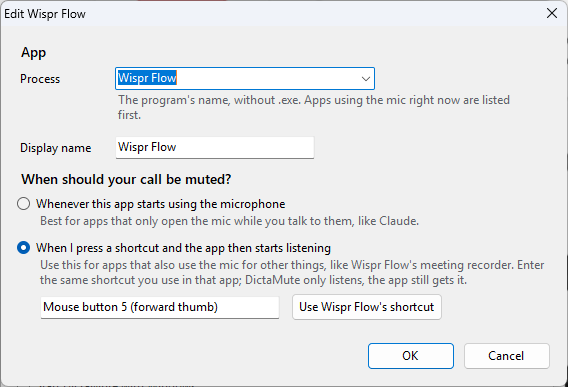
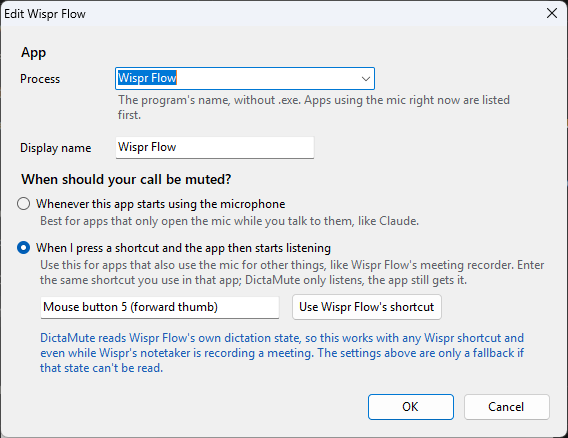
1.3.1: follow Wispr Flow's own dictation state
Wispr's meeting notetaker keeps the mic open for the whole call, so 'Wispr opened the mic'
never fired and every shortcut press logged 'already using the mic'. Wispr writes
prefs.activeDictationSession to its config.json while dictating (null when idle); DictaMute
now reads that (src/WisprState.cs) and falls back to shortcut + mic only if it can't.
CaptureProbe gains --streams for per-stream diagnostics.

diff --git a/src/DictaMute.cs b/src/DictaMute.cs
@@ -29,14 +29,14 @@ using Microsoft.Win32;
 [assembly: System.Reflection.AssemblyProduct("DictaMute")]
 [assembly: System.Reflection.AssemblyDescription("Mutes only your Teams or Discord call while your dictation app is listening")]
 [assembly: System.Reflection.AssemblyCopyright("MIT License")]
-[assembly: System.Reflection.AssemblyVersion("1.3.0.0")]
-[assembly: System.Reflection.AssemblyFileVersion("1.3.0.0")]
+[assembly: System.Reflection.AssemblyVersion("1.3.1.0")]
+[assembly: System.Reflection.AssemblyFileVersion("1.3.1.0")]
 
 static class Program
 {
     [DllImport("user32.dll")] static extern bool SetProcessDPIAware();
 
-    public const string Version = "1.3.0";
+    public const string Version = "1.3.1";
 
     [STAThread]
     static void Main(string[] args)
@@ -156,6 +156,8 @@ class DictaMuteApp : ApplicationContext
         public List<HashSet<int>> Combos;
         public State State = State.Idle;
         public bool Active, WasActive;
+        public bool Exact;            // Active comes from the app's own dictation state (Wispr Flow), not the mic
+        public bool? LoggedExact;
         public DateTime ArmDeadline, LastActive;
     }
 
@@ -335,7 +337,18 @@ class DictaMuteApp : ApplicationContext
                     }
                 }
                 bool inCall = calls.Any(c => c.InCall);
-                foreach (var w in list) w.Active = active.Any(w.Rule.Matches);
+                foreach (var w in list)
+                {
+                    bool? exact = WisprState.AppliesTo(w.Rule) ? WisprState.IsDictating() : null;
+                    w.Exact = exact.HasValue;
+                    w.Active = exact ?? active.Any(w.Rule.Matches);
+                    if (w.LoggedExact != w.Exact)
+                    {
+                        w.LoggedExact = w.Exact;
+                        if (w.Exact) Log(w.Rule.Name + ": following Wispr Flow's own dictation state");
+                        else if (WisprState.AppliesTo(w.Rule)) Log(w.Rule.Name + ": Wispr's dictation state isn't readable; using the shortcut and microphone");
+                    }
+                }
 
                 AppRule armed;
                 while (arms.TryDequeue(out armed)) OnArm(list, armed, inCall);
@@ -358,7 +371,8 @@ class DictaMuteApp : ApplicationContext
     void OnArm(List<Watch> list, AppRule rule, bool inCall)
     {
         var w = list.FirstOrDefault(x => x.Rule == rule);
-        if (w == null || w.State != State.Idle || paused || !inCall) return; // a stop press is seen via the mic going idle
+        if (w == null || w.Exact) return; // the app reports its own dictation state: no need to guess from the shortcut
+        if (w.State != State.Idle || paused || !inCall) return; // a stop press is seen via the mic going idle
         if (w.Active) { Log(rule.Name + ": shortcut, but it's already using the mic; leaving the call alone"); return; }
         Log(rule.Name + ": shortcut, armed (focus: " + Focus.Describe(Focus.Current()) + ")");
         w.State = State.Arming;
@@ -378,8 +392,9 @@ class DictaMuteApp : ApplicationContext
             else switch (w.State)
             {
                 case State.Idle:
-                    // "Whenever it uses the mic" apps start on the idle -> active edge.
-                    if (w.Combos.Count == 0 && w.Active && !w.WasActive) { w.State = State.Listening; Log(w.Rule.Name + ": started listening"); }
+                    // "Whenever it uses the mic" apps, and apps reporting their own dictation state,
+                    // start on the idle -> active edge.
+                    if ((w.Combos.Count == 0 || w.Exact) && w.Active && !w.WasActive) { w.State = State.Listening; Log(w.Rule.Name + ": started listening"); }
                     break;
                 case State.Arming:
                     if (w.Active) { w.State = State.Listening; Log(w.Rule.Name + ": started listening"); }

diff --git a/src/WisprState.cs b/src/WisprState.cs
@@ -1,0 +1,59 @@
+// Wispr Flow's own dictation state. Wispr writes prefs.activeDictationSession into its config.json
+// when dictation starts ({"uuid":…,"startTimestamp":…}) and sets it back to null when it stops.
+// That's exact even while Wispr's meeting notetaker holds the microphone open for a whole call,
+// which makes the "app opened the mic" signal useless for Wispr.
+using System;
+using System.IO;
+using System.Text;
+
+static class WisprState
+{
+    const string Key = "\"activeDictationSession\"";
+    static readonly string ConfigPath = Path.Combine(
+        Environment.GetFolderPath(Environment.SpecialFolder.ApplicationData), "Wispr Flow", "config.json");
+
+    static DateTime lastWrite;
+    static bool everSeen;  // the field exists in this Wispr version
+    static bool dictating;
+
+    public static bool AppliesTo(AppRule rule)
+    {
+        return rule.Process.StartsWith("Wispr", StringComparison.OrdinalIgnoreCase);
+    }
+
+    /// <summary>true = dictating, false = idle, null = can't tell (no Wispr, or a version without the field).</summary>
+    public static bool? IsDictating()
+    {
+        try
+        {
+            var info = new FileInfo(ConfigPath);
+            if (!info.Exists) return null;
+            if (info.LastWriteTimeUtc != lastWrite)
+            {
+                string raw;
+                using (var stream = new FileStream(ConfigPath, FileMode.Open, FileAccess.Read, FileShare.ReadWrite | FileShare.Delete))
+                using (var reader = new StreamReader(stream, Encoding.UTF8))
+                    raw = reader.ReadToEnd();
+                int i = raw.IndexOf(Key, StringComparison.Ordinal);
+                if (i >= 0)
+                {
+                    int colon = raw.IndexOf(':', i + Key.Length);
+                    int j = colon + 1;
+                    while (j < raw.Length && char.IsWhiteSpace(raw[j])) j++;
+                    if (colon > 0 && j < raw.Length)
+                    {
+                        dictating = raw[j] == '{';
+                        everSeen = true;
+                        lastWrite = info.LastWriteTimeUtc;
+                    }
+                }
+                else if (!everSeen) return null;
+                // Key missing after we've seen it = a half-written file: keep the last answer,
+                // and leave lastWrite alone so the next poll reads it again.
+            }
+        }
+        catch (IOException) { } // mid-write: keep the last answer
+        catch (UnauthorizedAccessException) { }
+        return everSeen ? dictating : (bool?)null;
+    }
+}

diff --git a/src/CaptureProbe.cs b/src/CaptureProbe.cs
@@ -1,7 +1,10 @@
 // Lists active microphone capture sessions (process + state). Diagnostic for DictaMute.
+//   CaptureProbe.exe [seconds]            active apps, printed when they change
+//   CaptureProbe.exe [seconds] --streams  every stream of every app (state, instance id)
 using System;
+using System.Collections.Generic;
 using System.Diagnostics;
-using System.Runtime.InteropServices;
+using System.Linq;
 using System.Threading;
 
 static class CaptureProbe
@@ -9,13 +12,37 @@ static class CaptureProbe
     static void Main(string[] args)
     {
         int seconds = args.Length > 0 ? int.Parse(args[0]) : 0;
+        bool streams = args.Contains("--streams");
         var end = DateTime.Now.AddSeconds(seconds);
         string last = null;
         do
         {
-            string now = string.Join("; ", AudioCapture.ActiveSessions());
+            string now = streams ? Streams() : string.Join("; ", AudioCapture.ActiveSessions());
             if (now != last) { Console.WriteLine(DateTime.Now.ToString("HH:mm:ss.fff ") + (now.Length > 0 ? now : "(none active)")); last = now; }
             Thread.Sleep(100);
         } while (DateTime.Now < end);
+    }
+
+    static readonly Dictionary<string, string> names = new Dictionary<string, string>();
+
+    static string Streams()
+    {
+        var parts = new List<string>();
+        foreach (var s in AudioCapture.AllSessions())
+        {
+            var f = s.Split('|');
+            string name;
+            if (!names.TryGetValue(f[0], out name))
+            {
+                try { name = Process.GetProcessById(int.Parse(f[0])).ProcessName; } catch { name = "?"; }
+                names[f[0]] = name;
+            }
+            if (name == "?" && f[1] != "1") continue; // expired sessions of exited processes
+            string state = f[1] == "1" ? "ACTIVE" : f[1] == "0" ? "inactive" : "expired";
+            string id = f[2].Length > 12 ? f[2].Substring(f[2].Length - 12) : f[2];
+            parts.Add(name + "(" + f[0] + ") " + state + " …" + id);
+        }
+        parts.Sort();
+        return string.Join("\n             ", parts);
     }
 }

diff --git a/src/AudioCapture.cs b/src/AudioCapture.cs
@@ -82,6 +82,47 @@ static class AudioCapture
         return result;
     }
 
+    /// <summary>
+    /// Every capture session on every mic, active or not: "pid|state|instance-id". The instance id
+    /// tells two streams of the same app apart (e.g. a recorder stream and a dictation stream).
+    /// </summary>
+    public static List<string> AllSessions()
+    {
+        var result = new List<string>();
+        var enumerator = (IMMDeviceEnumerator)new MMDeviceEnumeratorCom();
+        IMMDeviceCollection devices;
+        enumerator.EnumAudioEndpoints(eCapture, DEVICE_STATE_ACTIVE, out devices);
+        int count; devices.GetCount(out count);
+        var iid = typeof(IAudioSessionManager2).GUID;
+        for (int i = 0; i < count; i++)
+        {
+            IMMDevice device; devices.Item(i, out device);
+            object o;
+            if (device.Activate(ref iid, 23, IntPtr.Zero, out o) != 0) continue;
+            var manager = (IAudioSessionManager2)o;
+            IAudioSessionEnumerator sessions;
+            if (manager.GetSessionEnumerator(out sessions) != 0) continue;
+            int n; sessions.GetCount(out n);
+            for (int j = 0; j < n; j++)
+            {
+                IAudioSessionControl2 s; sessions.GetSession(j, out s);
+                int state; s.GetState(out state);
+                uint pid; s.GetProcessId(out pid);
+                IntPtr idPtr; s.GetSessionInstanceIdentifier(out idPtr);
+                string id = Marshal.PtrToStringUni(idPtr) ?? "";
+                Marshal.FreeCoTaskMem(idPtr);
+                result.Add(pid + "|" + state + "|" + id);
+                Marshal.ReleaseComObject(s);
+            }
+            Marshal.ReleaseComObject(sessions);
+            Marshal.ReleaseComObject(manager);
+            Marshal.ReleaseComObject(device);
+        }
+        Marshal.ReleaseComObject(devices);
+        Marshal.ReleaseComObject(enumerator);
+        return result;
+    }
+
     public static List<uint> ActivePids()
     {
         var pids = new List<uint>();

diff --git a/src/SettingsForm.cs b/src/SettingsForm.cs
@@ -129,7 +129,9 @@ class SettingsForm : Form
         foreach (var app in working.Apps)
         {
             var item = new ListViewItem(app.Name) { Tag = app, Checked = app.Enabled };
-            item.SubItems.Add(Shortcut.Describe(app.Shortcut));
+            item.SubItems.Add(WisprState.AppliesTo(app) && WisprState.IsDictating().HasValue
+                ? "When Wispr Flow starts dictating"
+                : Shortcut.Describe(app.Shortcut));
             list.Items.Add(item);
         }
         list.EndUpdate();
@@ -184,6 +186,7 @@ class AppDialog : Form
     readonly RadioButton whenever, afterShortcut;
     readonly ShortcutBox shortcut;
     readonly Button detect;
+    readonly Label wisprNote;
     public AppRule Result { get; private set; }
 
     public AppDialog(AppRule rule)
@@ -226,6 +229,12 @@ class AppDialog : Form
         });
         detect.Margin = new Padding(8, 0, 0, 0);
         col.Controls.Add(Indent(Ui.Row(shortcut, detect)));
+        wisprNote = Ui.Text(
+            "DictaMute reads Wispr Flow's own dictation state, so this works with any Wispr shortcut and " +
+            "even while Wispr's notetaker is recording a meeting. The settings above are only a fallback " +
+            "if that state can't be read.", null, Color.FromArgb(0x1A, 0x5F, 0xB4));
+        wisprNote.MaximumSize = new Size(500, 0);
+        col.Controls.Add(Indent(wisprNote));
         shortcut.Enter += delegate { afterShortcut.Checked = true; };
 
         bool hasShortcut = Shortcut.Parse(rule.Shortcut).Count > 0;
@@ -248,6 +257,7 @@ class AppDialog : Form
     void UpdateDetect()
     {
         detect.Visible = process.Text.StartsWith("Wispr", StringComparison.OrdinalIgnoreCase);
+        if (wisprNote != null) wisprNote.Visible = detect.Visible && WisprState.IsDictating().HasValue;
     }
 
     void Accept()

diff --git a/README.md b/README.md
@@ -25,11 +25,13 @@ mid-dictation, or DictaMute is paused. Choose which call apps it mutes under **S
 | Mode | Use it for | Example |
 |------|-----------|---------|
 | **Whenever this app starts using the microphone** | Apps that only open the mic while you're talking to them | Claude's voice input |
-| **When I press a shortcut and the app then starts listening** | Apps that also keep the mic open for other things | Wispr Flow (its meeting recorder holds the mic during calls) |
+| **When I press a shortcut and the app then starts listening** | Apps that also keep the mic open for other things | Any app whose mic stays open while idle |
 
 In shortcut mode, enter the **same shortcut you use in that app** — a key combo like `Ctrl+Win`
 or a middle/thumb mouse button. DictaMute only *listens* for it; the app still receives it.
-For Wispr Flow, **Use Wispr Flow's shortcut** reads it straight from Wispr's settings.
+**Wispr Flow is special:** DictaMute reads Wispr's own dictation state (it records the active dictation in its
+settings file), so Wispr works with any of its shortcuts and even while its meeting notetaker is recording.
+The shortcut is only a fallback; **Use Wispr Flow's shortcut** fills it in from Wispr's settings.
 
 | Shortcut mode (Wispr Flow) | Microphone mode (Claude) |
 |---|---|
@@ -87,9 +89,10 @@ when a shortcut fires, which can include meeting names.
   dictation app's startup.
 - **Focus can briefly flicker to the call app.** If pressing its button moves focus to the
   meeting window, DictaMute restores your previous window within ~80 ms.
-- **An app that's already holding the mic can't be detected starting dictation.** If Wispr
-  Flow's mic is already open when you press the shortcut, DictaMute leaves the call alone (and
-  says so in the log).
+- **An app that's already holding the mic can't be detected starting dictation** — except Wispr Flow:
+  DictaMute reads Wispr's own dictation state, so it works even while Wispr's meeting notetaker keeps the
+  mic open for the whole call. For other apps in shortcut mode, if the mic is already open when you press
+  the shortcut, DictaMute leaves the call alone (and says so in the log).
 - **"In a call" means the call app has the microphone open.** Teams and Discord only do that
   during a call (or Discord's mic test in its settings).
 - Relies on each app's button id or English labels (Teams: `microphone-button`; Discord: the
